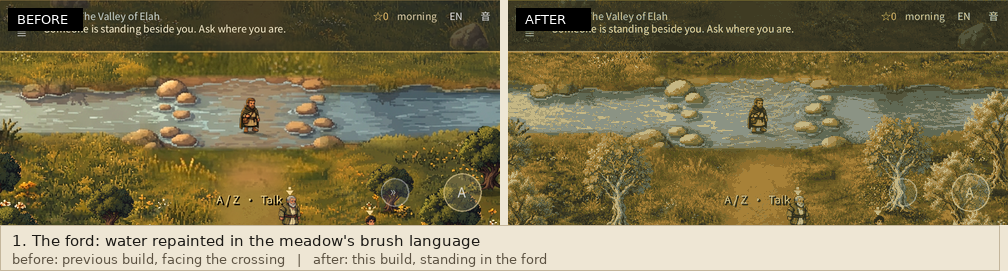
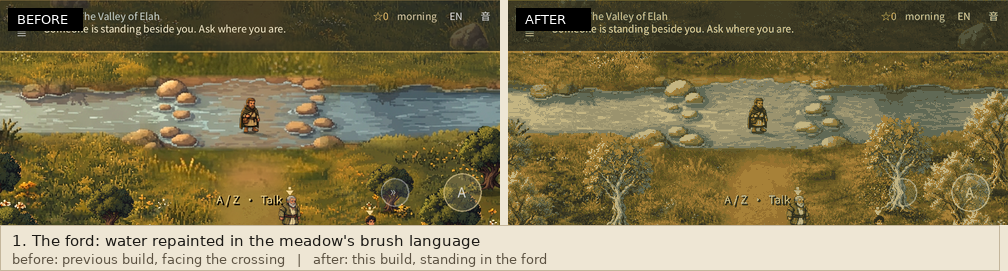
Refresh the review sheets for the final water pass [skip ci]

diff --git a/docs/AGENT_CONTINUATION.md b/docs/AGENT_CONTINUATION.md
@@ -12,7 +12,7 @@ The active branch is `arena/0854f8bd-walkincovenant`, based on `77686bf2d5f891ab
 
 The user likes the published ground improvement but asks for: (1) a comparably detailed river, including the shoreline/crossing; (2) trees that are visibly **taller than people**, not merely wider; and (3) the visually mismatched soldier seen when walking north. They also reported image-generation failures and asked that missing/failed images be regenerated. Implement and verify the actual assets and game behavior, rather than stopping at recommendations. Preserve the established painterly style, gameplay, collisions, story, high-quality props and save data; do not deploy a later build without separate approval.
 
-All three changes are now implemented on branch `arena/0854f8bd-walkincovenant` and pass hosted CI ([run 43458686659](https://github.com/fongway94/WalkInCovenant/actions/runs/43458686659), commit `a968c5b`): the water surface is repainted from square-sampled grain, stretched current bands, short broken dashes, colour dabs and wet shading against stones and banks (only painted-water pixels change; the audit's stone, reed and shoreline coordinates stay byte-identical); the olive and fig trees are re-scaled to 82 and 78 world pixels against a 27.4-pixel person, with anchors, footprints and sorting unchanged; and the ridge Goliath is repainted as the painterly bronze champion, matching the duel art. The strike variant's baked-spear cut was narrowed after an earlier cut clipped his left shin. Evidence, including real in-game before/after frames and native art-scale comparisons, is in [River, tree height and the northern figure](art-reset/river-tree-soldier-review/REVIEW.md).
+All three changes are now implemented on branch `arena/0854f8bd-walkincovenant` and pass hosted CI ([run 43462121260](https://github.com/fongway94/WalkInCovenant/actions/runs/43462121260), commit `87d8708`): the water surface is repainted from square-sampled grain, stretched current bands, short broken dashes, colour dabs and wet shading against stones and banks (only painted-water pixels change; the audit's stone, reed and shoreline coordinates stay byte-identical); the olive and fig trees are re-scaled to 82 and 78 world pixels against a 27.4-pixel person, with anchors, footprints and sorting unchanged; and the ridge Goliath is repainted as the painterly bronze champion, matching the duel art. The strike variant's baked-spear cut was narrowed after an earlier cut clipped his left shin. Evidence, including real in-game before/after frames and native art-scale comparisons, is in [River, tree height and the northern figure](art-reset/river-tree-soldier-review/REVIEW.md).
 
 That build is **not published**. `deploy` is skipped for non-`main` branches, so https://fongway94.github.io/WalkInCovenant/ still serves the approved `0fb4c82` build; do not merge or deploy without the user's separate approval. The Elah ridge contains a separately drawn Goliath at `[16, 7]` (`Region.gd`, `art/scenes_painted/goliath.png`) — that painted figure is the one the user saw walking north, while the generic `soldier` NPC still falls back to a tinted Corin rig in `Npc.gd` and was not changed. Earlier scratch candidates remain under `tools/art/sources/pending_river_tree_soldier/`; the v1 tall-tree sources were deleted because their canopies were clipped. The previous external sandbox link failed for this user's phone, so visual review goes through committed images and GitHub links.
 

diff --git a/docs/art-reset/river-tree-soldier-review/REVIEW.md b/docs/art-reset/river-tree-soldier-review/REVIEW.md
@@ -7,7 +7,7 @@ user's separate approval.
 
 | # | Request | What changed | Where |
 |---|---------|--------------|-------|
-| 1 | River detail at the ground's painterly level, shoreline and crossing included | Water surface rebuilt with square-sampled fine grain, stretched current bands, short broken dashes, four-note colour dabs and wet shading against stones and banks | `tools/art/river_detail.py`, `art/scenes_painted/world_elah_refined_bottom.png` |
+| 1 | River detail at the ground's painterly level, shoreline and crossing included | Water surface rebuilt with square-sampled grain in the deep water, stretched current bands, short broken dashes, four-note colour dabs and wet shading against stones and banks; the bright ford is left calm | `tools/art/river_detail.py`, `art/scenes_painted/world_elah_refined_bottom.png` |
 | 2 | Trees visibly **taller** than people, not wider | Tall olive/fig canvases scaled to 82 / 78 world pixels against a 27.4-pixel person (about 3x), feet and trunk anchors unchanged | `art/props_painted/olive_tree_tall.png`, `fig_tree_tall.png`, `scripts/world/Region.gd` |
 | 3 | The mismatched figure seen walking north | The ridge Goliath repainted in the painterly bronze style used by the duel | `art/scenes_painted/goliath.png`, `goliath_striking.png` |
 
@@ -27,8 +27,8 @@ user's separate approval.
 
 The four in-game frames are real framebuffers from `tests/art_review_probe.tscn`,
 captured under Xvfb with software OpenGL in CI run
-[43458686659](https://github.com/fongway94/WalkInCovenant/actions/runs/43458686659)
-(commit `a968c5b`). They arrive here through the run's annotations, so they are
+[43462121260](https://github.com/fongway94/WalkInCovenant/actions/runs/43462121260)
+(commit `87d8708`). They arrive here through the run's annotations, so they are
 500x225 at 24 colours derived from the 1000x450 capture; the art-scale panels
 (1b, 3b) are native pixels.
 
@@ -51,7 +51,7 @@ captured under Xvfb with software OpenGL in CI run
 
 ## Verification
 
-Hosted [run 43458686659](https://github.com/fongway94/WalkInCovenant/actions/runs/43458686659)
+Hosted [run 43462121260](https://github.com/fongway94/WalkInCovenant/actions/runs/43462121260)
 passed lint (static, xref, API, font, pack, painted-world and the chapter
 contracts), the visual job with the four new review frames, both art-review
 publication jobs, export-web, the release browser suite, the chapter browser suite
